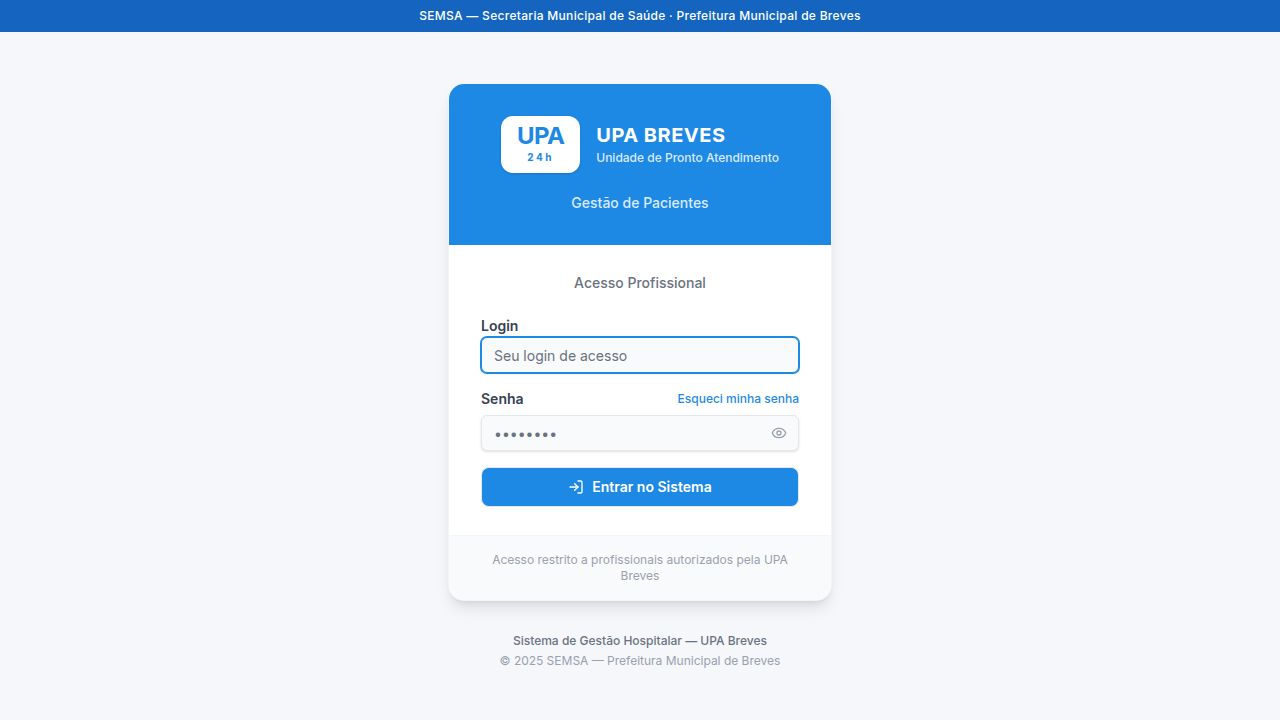
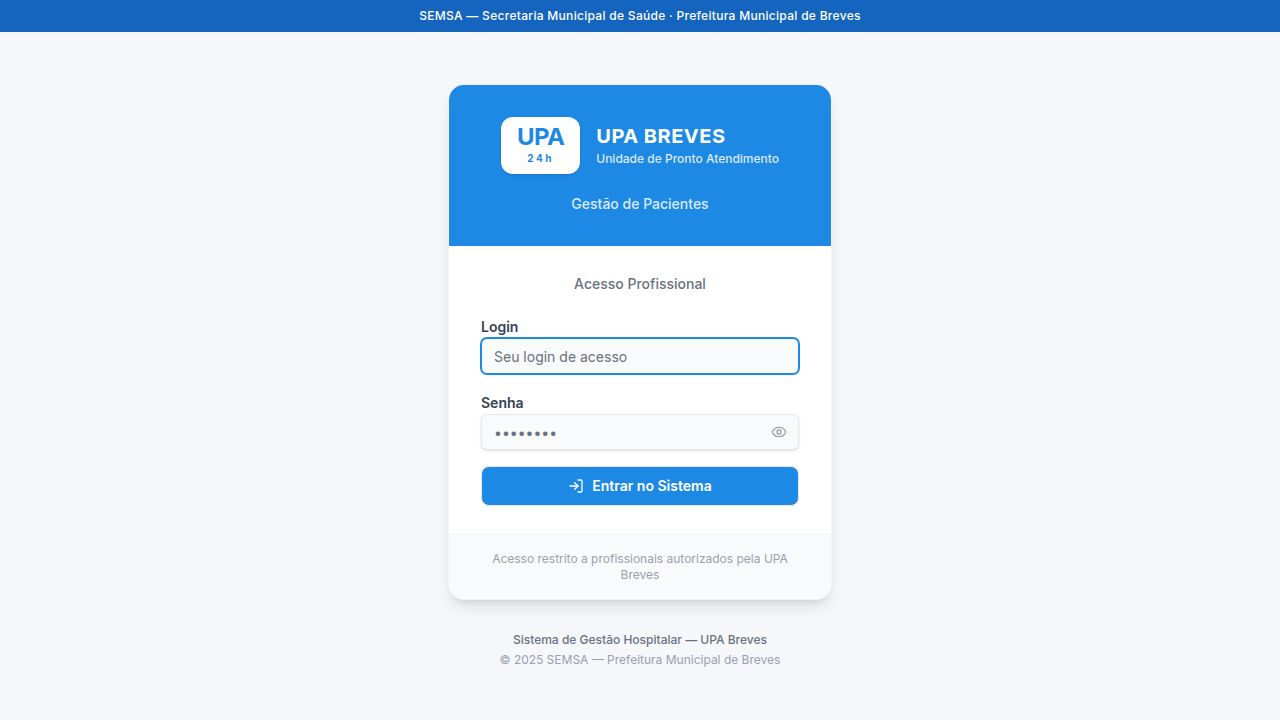
Add official AIH document generation for patients
Implement backend route to generate official SUS/SIH-SUS AIH-1 PDF with patient data and add a frontend button to trigger the download.

Replit-Commit-Author: Agent
Replit-Commit-Session-Id: f69a14a7-3670-44b7-ab35-1544a8510d06
Replit-Commit-Checkpoint-Type: full_checkpoint
Replit-Commit-Event-Id: e6382efb-0a32-4060-8db3-f6454313451d
Replit-Commit-Screenshot-Url: https://storage.googleapis.com/screenshot-production-us-central1/d56b4c3d-6542-47c8-83f2-bea0107ee2fc/f69a14a7-3670-44b7-ab35-1544a8510d06/tXVpUDP
Replit-Helium-Checkpoint-Created: true

diff --git a/artifacts/api-server/src/routes/patients.ts b/artifacts/api-server/src/routes/patients.ts
@@ -1428,6 +1428,255 @@ router.get("/:id/pdf/ficha-referencia", async (req, res) => {
   res.send(Buffer.from(pdfBytes));
 });
 
+// ── AIH (Autorização de Internação Hospitalar) PDF ────────────────────────────
+
+function wrapAihText(text: string, font: { widthOfTextAtSize: (s: string, n: number) => number }, fontSize: number, maxWidth: number): string[] {
+  const words = text.split(" ");
+  const lines: string[] = [];
+  let current = "";
+  for (const word of words) {
+    const test = current ? `${current} ${word}` : word;
+    if (font.widthOfTextAtSize(test, fontSize) > maxWidth && current) {
+      lines.push(current);
+      current = word;
+    } else {
+      current = test;
+    }
+  }
+  if (current) lines.push(current);
+  return lines;
+}
+
+router.get("/:id/pdf/aih", requirePermissao("gerar_pdf"), async (req, res) => {
+  const patientId = Number(req.params.id);
+  const [patient] = await db.select().from(patientsTable).where(eq(patientsTable.id, patientId)).limit(1);
+  if (!patient) { res.status(404).json({ error: "Paciente não encontrado" }); return; }
+
+  const doc  = await PDFDocument.create();
+  const font = await doc.embedFont(StandardFonts.Helvetica);
+  const bold = await doc.embedFont(StandardFonts.HelveticaBold);
+
+  // A4 portrait: 595 × 842 pts
+  const page = doc.addPage([595, 842]);
+
+  const BLACK = rgb(0, 0, 0);
+  const DGRAY = rgb(0.35, 0.35, 0.35);
+  const LGRAY = rgb(0.6, 0.6, 0.6);
+
+  const L = 30;   // left margin
+  const R = 565;  // right margin
+  const W = R - L;
+
+  const fmtDate = (d: string | null | undefined) => {
+    if (!d) return "";
+    const m = d.match(/^(\d{4})-(\d{2})-(\d{2})/);
+    return m ? `${m[3]}/${m[2]}/${m[1]}` : d;
+  };
+
+  const todayStr = new Date().toLocaleDateString("pt-BR");
+
+  // Draw a labeled box with optional text value
+  const box = (
+    bx: number, by: number, bw: number, bh: number,
+    label: string, value = "",
+    opts: { bold?: boolean; center?: boolean; size?: number } = {},
+  ) => {
+    page.drawRectangle({ x: bx, y: by, width: bw, height: bh, borderColor: BLACK, borderWidth: 0.4 });
+    page.drawText(label, { x: bx + 2, y: by + bh - 7, font, size: 5, color: LGRAY });
+    if (!value) return;
+    const f  = opts.bold ? bold : font;
+    const sz = opts.size ?? 7.5;
+    const vx = opts.center ? bx + bw / 2 - f.widthOfTextAtSize(value, sz) / 2 : bx + 3;
+    const vy = by + bh / 2 - sz / 2 - 0.5;
+    page.drawText(value, { x: vx, y: vy, font: f, size: sz, color: BLACK });
+  };
+
+  const txt = (t: string, x: number, y: number, sz = 8, isBold = false) => {
+    if (!t) return;
+    page.drawText(t, { x, y, font: isBold ? bold : font, size: sz, color: BLACK });
+  };
+
+  const blkTitle = (t: string, y: number) => {
+    page.drawRectangle({ x: L, y: y - 1, width: W, height: 10, color: rgb(0.88, 0.88, 0.88) });
+    page.drawText(t, { x: L + 2, y, font: bold, size: 6.5, color: BLACK });
+  };
+
+  const ROW = 22; // default row height
+
+  // Address
+  const addrFull = [patient.addressStreet, patient.addressNumber].filter(Boolean).join(", ");
+  const addressStr = addrFull || patient.address || "";
+  const sexLabel = patient.sex === "M" ? "Masculino" : patient.sex === "F" ? "Feminino" : "Outro";
+  const internDate = patient.horaInternacao
+    ? new Date(patient.horaInternacao).toLocaleDateString("pt-BR")
+    : (patient.attendanceDate ? fmtDate(patient.attendanceDate) : todayStr);
+  const competencia = todayStr.slice(3); // MM/AAAA
+
+  // ── CABEÇALHO ─────────────────────────────────────────────────────────────
+  let cy = 842 - 18;
+
+  page.drawLine({ start: { x: L, y: cy + 2 }, end: { x: R, y: cy + 2 }, thickness: 1.2, color: BLACK });
+
+  txt("Ministério da Saúde / SUS — Sistema Único de Saúde", L, cy, 6.5);
+
+  cy -= 16;
+  const titleStr = "AUTORIZAÇÃO DE INTERNAÇÃO HOSPITALAR";
+  txt(titleStr, L + W / 2 - bold.widthOfTextAtSize(titleStr, 13) / 2, cy, 13, true);
+
+  cy -= 5;
+  page.drawLine({ start: { x: L, y: cy }, end: { x: R, y: cy }, thickness: 0.8, color: BLACK });
+
+  // Nº AIH / Tipo / Competência / Folha
+  cy -= ROW;
+  box(L,              cy, W * 0.10, ROW, "Tipo AIH", "1");
+  box(L + W * 0.10,   cy, W * 0.40, ROW, "Nº da AIH", patient.atendimentoNumber ?? "");
+  box(L + W * 0.50,   cy, W * 0.25, ROW, "Competência (MM/AAAA)", competencia);
+  box(L + W * 0.75,   cy, W * 0.25, ROW, "Folha Nº / Total", "01 / 01");
+
+  // ── BLOCO I — ESTABELECIMENTO ──────────────────────────────────────────────
+  cy -= 14;
+  blkTitle("BLOCO I — IDENTIFICAÇÃO DO ESTABELECIMENTO DE SAÚDE SOLICITANTE", cy);
+
+  cy -= ROW;
+  box(L,            cy, W * 0.75, ROW, "Nome do Estabelecimento de Saúde", "UPA 24H — Unidade de Pronto Atendimento — Breves / PA", { bold: true });
+  box(L + W * 0.75, cy, W * 0.25, ROW, "Código CNES", "");
+
+  cy -= ROW;
+  box(L,            cy, W * 0.50, ROW, "Município do Estabelecimento", "Breves");
+  box(L + W * 0.50, cy, W * 0.08, ROW, "UF", "PA");
+  box(L + W * 0.58, cy, W * 0.25, ROW, "Especialidade", "Clínica Geral / Emergência");
+  box(L + W * 0.83, cy, W * 0.17, ROW, "Caráter Internação", "01 — Urgência");
+
+  cy -= ROW;
+  box(L,            cy, W * 0.40, ROW, "Setor / Clínica", patient.sector ?? "");
+  box(L + W * 0.40, cy, W * 0.20, ROW, "Nº do Leito", patient.bed ?? "");
+  box(L + W * 0.60, cy, W * 0.40, ROW, "Unidade de Saúde / Serviço", patient.healthUnit ?? "UPA Breves — Breves/PA");
+
+  // ── BLOCO II — PACIENTE ────────────────────────────────────────────────────
+  cy -= 14;
+  blkTitle("BLOCO II — IDENTIFICAÇÃO DO PACIENTE", cy);
+
+  cy -= ROW;
+  box(L,            cy, W * 0.70, ROW, "Nome do Paciente", patient.fullName, { bold: true });
+  box(L + W * 0.70, cy, W * 0.30, ROW, "Nº do Prontuário", patient.prontuarioNumber ?? "");
+
+  cy -= ROW;
+  box(L,            cy, W * 0.40, ROW, "Nº Cartão Nacional de Saúde (CNS)", patient.cns ?? "");
+  box(L + W * 0.40, cy, W * 0.20, ROW, "Data de Nascimento", fmtDate(patient.birthDate));
+  box(L + W * 0.60, cy, W * 0.14, ROW, "Sexo", sexLabel);
+  box(L + W * 0.74, cy, W * 0.16, ROW, "Raça/Cor", patient.corRaca ?? "");
+  box(L + W * 0.90, cy, W * 0.10, ROW, "Etnia", "");
+
+  cy -= ROW;
+  box(L, cy, W, ROW, "Nome da Mãe", patient.motherName ?? "");
+
+  cy -= ROW;
+  box(L,            cy, W * 0.50, ROW, "Logradouro", patient.addressStreet || addressStr);
+  box(L + W * 0.50, cy, W * 0.10, ROW, "Número", patient.addressNumber ?? "");
+  box(L + W * 0.60, cy, W * 0.20, ROW, "Complemento", "");
+  box(L + W * 0.80, cy, W * 0.20, ROW, "Bairro", patient.addressNeighborhood ?? "");
+
+  cy -= ROW;
+  box(L,            cy, W * 0.15, ROW, "CEP", patient.addressCep ?? "");
+  box(L + W * 0.15, cy, W * 0.45, ROW, "Município de Residência", patient.addressCity || "Breves");
+  box(L + W * 0.60, cy, W * 0.08, ROW, "UF", "PA");
+  box(L + W * 0.68, cy, W * 0.32, ROW, "Telefone de Contato", patient.phone ?? "");
+
+  cy -= ROW;
+  box(L,            cy, W * 0.25, ROW, "Nacionalidade", "Brasileira");
+  box(L + W * 0.25, cy, W * 0.25, ROW, "Estado Civil", patient.estadoCivil ?? "");
+  box(L + W * 0.50, cy, W * 0.25, ROW, "CPF do Paciente", patient.cpf ?? "");
+  box(L + W * 0.75, cy, W * 0.25, ROW, "RG", patient.rg ?? "");
+
+  // ── BLOCO III — PROCEDIMENTO E DIAGNÓSTICO ────────────────────────────────
+  cy -= 14;
+  blkTitle("BLOCO III — PROCEDIMENTO SOLICITADO / DIAGNÓSTICO", cy);
+
+  cy -= ROW;
+  box(L,            cy, W * 0.20, ROW, "Código do Procedimento Solicitado", "03.01.01.007-2");
+  box(L + W * 0.20, cy, W * 0.55, ROW, "Descrição do Procedimento", "TRATAMENTO DE DOENÇAS — CLÍNICA MÉDICA / URGÊNCIA");
+  box(L + W * 0.75, cy, W * 0.10, ROW, "Qtd.", "1");
+  box(L + W * 0.85, cy, W * 0.15, ROW, "Nº Reg. DRS/CRS", "");
+
+  cy -= ROW;
+  box(L,            cy, W * 0.22, ROW, "CID-10 Principal", "");
+  box(L + W * 0.22, cy, W * 0.22, ROW, "CID-10 Secundário", "");
+  box(L + W * 0.44, cy, W * 0.22, ROW, "CID-10 Causas Associadas", "");
+  box(L + W * 0.66, cy, W * 0.17, ROW, "CID-10 Óbito", "");
+  box(L + W * 0.83, cy, W * 0.17, ROW, "Caráter do Atend.", "01 — Urgência");
+
+  // ── BLOCO IV — INDICAÇÃO CLÍNICA ──────────────────────────────────────────
+  cy -= 14;
+  blkTitle("BLOCO IV — INDICAÇÃO CLÍNICA / MOTIVO DA INTERNAÇÃO", cy);
+
+  const indicH = 65;
+  cy -= indicH;
+  page.drawRectangle({ x: L, y: cy, width: W, height: indicH, borderColor: BLACK, borderWidth: 0.4 });
+  page.drawText("Diagnóstico / Indicação Clínica / Motivo da Internação", { x: L + 2, y: cy + indicH - 7, font, size: 5, color: LGRAY });
+  const diagText = [patient.diagnosis, patient.symptoms].filter(Boolean).join(" | ");
+  if (diagText) {
+    const lines = wrapAihText(diagText, font, 8, W - 8);
+    for (let i = 0; i < Math.min(lines.length, 5); i++) {
+      txt(lines[i], L + 3, cy + indicH - 18 - i * 11);
+    }
+  }
+
+  // ── BLOCO V — MÉDICO SOLICITANTE ──────────────────────────────────────────
+  cy -= 14;
+  blkTitle("BLOCO V — DADOS DO MÉDICO SOLICITANTE / RESPONSÁVEL PELO LAUDO", cy);
+
+  cy -= ROW;
+  box(L,            cy, W * 0.55, ROW, "Nome do Médico Responsável pelo Laudo", patient.responsibleProfessional ?? "");
+  box(L + W * 0.55, cy, W * 0.20, ROW, "Código CBO", "225120");
+  box(L + W * 0.75, cy, W * 0.25, ROW, "CRM / Conselho", "");
+
+  const sigH = 32;
+  cy -= sigH;
+  page.drawRectangle({ x: L, y: cy, width: W * 0.60, height: sigH, borderColor: BLACK, borderWidth: 0.4 });
+  page.drawText("Assinatura e Carimbo do Médico Solicitante", { x: L + 2, y: cy + sigH - 8, font, size: 5, color: LGRAY });
+  box(L + W * 0.60, cy, W * 0.40, sigH, "Data do Laudo Médico", todayStr);
+
+  // ── BLOCO VI — AUTORIZAÇÃO ────────────────────────────────────────────────
+  cy -= 14;
+  blkTitle("BLOCO VI — AUTORIZAÇÃO (USO EXCLUSIVO DO ÓRGÃO AUTORIZADOR)", cy);
+
+  cy -= ROW;
+  box(L,            cy, W * 0.55, ROW, "Nome do Médico Auditor Autorizador", "");
+  box(L + W * 0.55, cy, W * 0.20, ROW, "CRM do Auditor", "");
+  box(L + W * 0.75, cy, W * 0.25, ROW, "Data da Autorização", "");
+
+  const authH = 32;
+  cy -= authH;
+  page.drawRectangle({ x: L, y: cy, width: W * 0.60, height: authH, borderColor: BLACK, borderWidth: 0.4 });
+  page.drawText("Assinatura e Carimbo do Médico Auditor / Autorizador", { x: L + 2, y: cy + authH - 8, font, size: 5, color: LGRAY });
+  box(L + W * 0.60, cy, W * 0.20, authH, "Código da Operadora", "");
+  box(L + W * 0.80, cy, W * 0.20, authH, "Nº de Autorização", "");
+
+  // ── BLOCO VII — DADOS DA INTERNAÇÃO ───────────────────────────────────────
+  cy -= 14;
+  blkTitle("BLOCO VII — DADOS DA INTERNAÇÃO", cy);
+
+  cy -= ROW;
+  box(L,            cy, W * 0.25, ROW, "Data da Internação", internDate);
+  box(L + W * 0.25, cy, W * 0.25, ROW, "Nº do Leito / Quarto", patient.bed ?? "");
+  box(L + W * 0.50, cy, W * 0.25, ROW, "Previsão de Permanência (dias)", "");
+  box(L + W * 0.75, cy, W * 0.25, ROW, "Data Provável de Alta", "");
+
+  // ── RODAPÉ ────────────────────────────────────────────────────────────────
+  cy -= 12;
+  page.drawLine({ start: { x: L, y: cy }, end: { x: R, y: cy }, thickness: 0.5, color: BLACK });
+  cy -= 9;
+  page.drawText(
+    `Documento gerado em ${todayStr} | Nº Prontuário: ${patient.prontuarioNumber} | Nº Atendimento: ${patient.atendimentoNumber} | UPA 24H — Breves/PA — SUS/SIH-SUS`,
+    { x: L, y: cy, font, size: 5.5, color: DGRAY },
+  );
+
+  const pdfBytes = await doc.save();
+  res.setHeader("Content-Type", "application/pdf");
+  res.setHeader("Content-Disposition", `attachment; filename="AIH_${patient.fullName.replace(/\s+/g, "-")}.pdf"`);
+  res.send(Buffer.from(pdfBytes));
+});
+
 // ── prescription PDF ──────────────────────────────────────────────────────────
 
 function wrapTextPdf(

diff --git a/artifacts/upa-system/src/pages/patient-detail.tsx b/artifacts/upa-system/src/pages/patient-detail.tsx
@@ -302,8 +302,9 @@ export default function PatientDetail() {
   const [solExameLabInput, setSolExameLabInput]     = useState("");
   const [solExameImgInput, setSolExameImgInput]     = useState("");
   const [solExameLoading, setSolExameLoading]       = useState(false);
-  const [downloadingApac, setDownloadingApac]       = useState(false);
+  const [downloadingApac, setDownloadingApac]         = useState(false);
   const [downloadingFichaRef, setDownloadingFichaRef] = useState(false);
+  const [downloadingAih, setDownloadingAih]           = useState(false);
 
   const [prevVisits, setPrevVisits]               = useState<Patient[] | null>(null);
   const [prevVisitsLoading, setPrevVisitsLoading] = useState(false);
@@ -617,6 +618,26 @@ export default function PatientDetail() {
             >
               <FileDown className="h-4 w-4 mr-1.5" />
               {downloadingFichaRef ? "Gerando…" : "Ficha Ref."}
+            </Button>
+            <Button
+              variant="outline" size="sm"
+              className="print-hide hidden sm:flex"
+              disabled={downloadingAih || !pode("gerar_pdf")}
+              onClick={async () => {
+                setDownloadingAih(true);
+                try {
+                  const base = (import.meta.env.BASE_URL ?? "/").replace(/\/$/, "");
+                  const resp = await fetch(`${base}/api/patients/${id}/pdf/aih`, { headers: { "x-staff-id": String(activeUser?.id ?? 0) } });
+                  if (!resp.ok) throw new Error();
+                  const blob = await resp.blob();
+                  const a = Object.assign(document.createElement("a"), { href: URL.createObjectURL(blob), download: `AIH_${patient?.full_name?.replace(/\s+/g,"_")}.pdf` });
+                  document.body.appendChild(a); a.click(); document.body.removeChild(a);
+                } catch { toast({ title: "Erro ao gerar AIH", variant: "destructive" }); }
+                finally { setDownloadingAih(false); }
+              }}
+            >
+              <FileDown className="h-4 w-4 mr-1.5" />
+              {downloadingAih ? "Gerando…" : "AIH"}
             </Button>
             {pode("editar_paciente") && (
               <Button variant="outline" size="sm" onClick={() => setIsEditOpen(true)}>